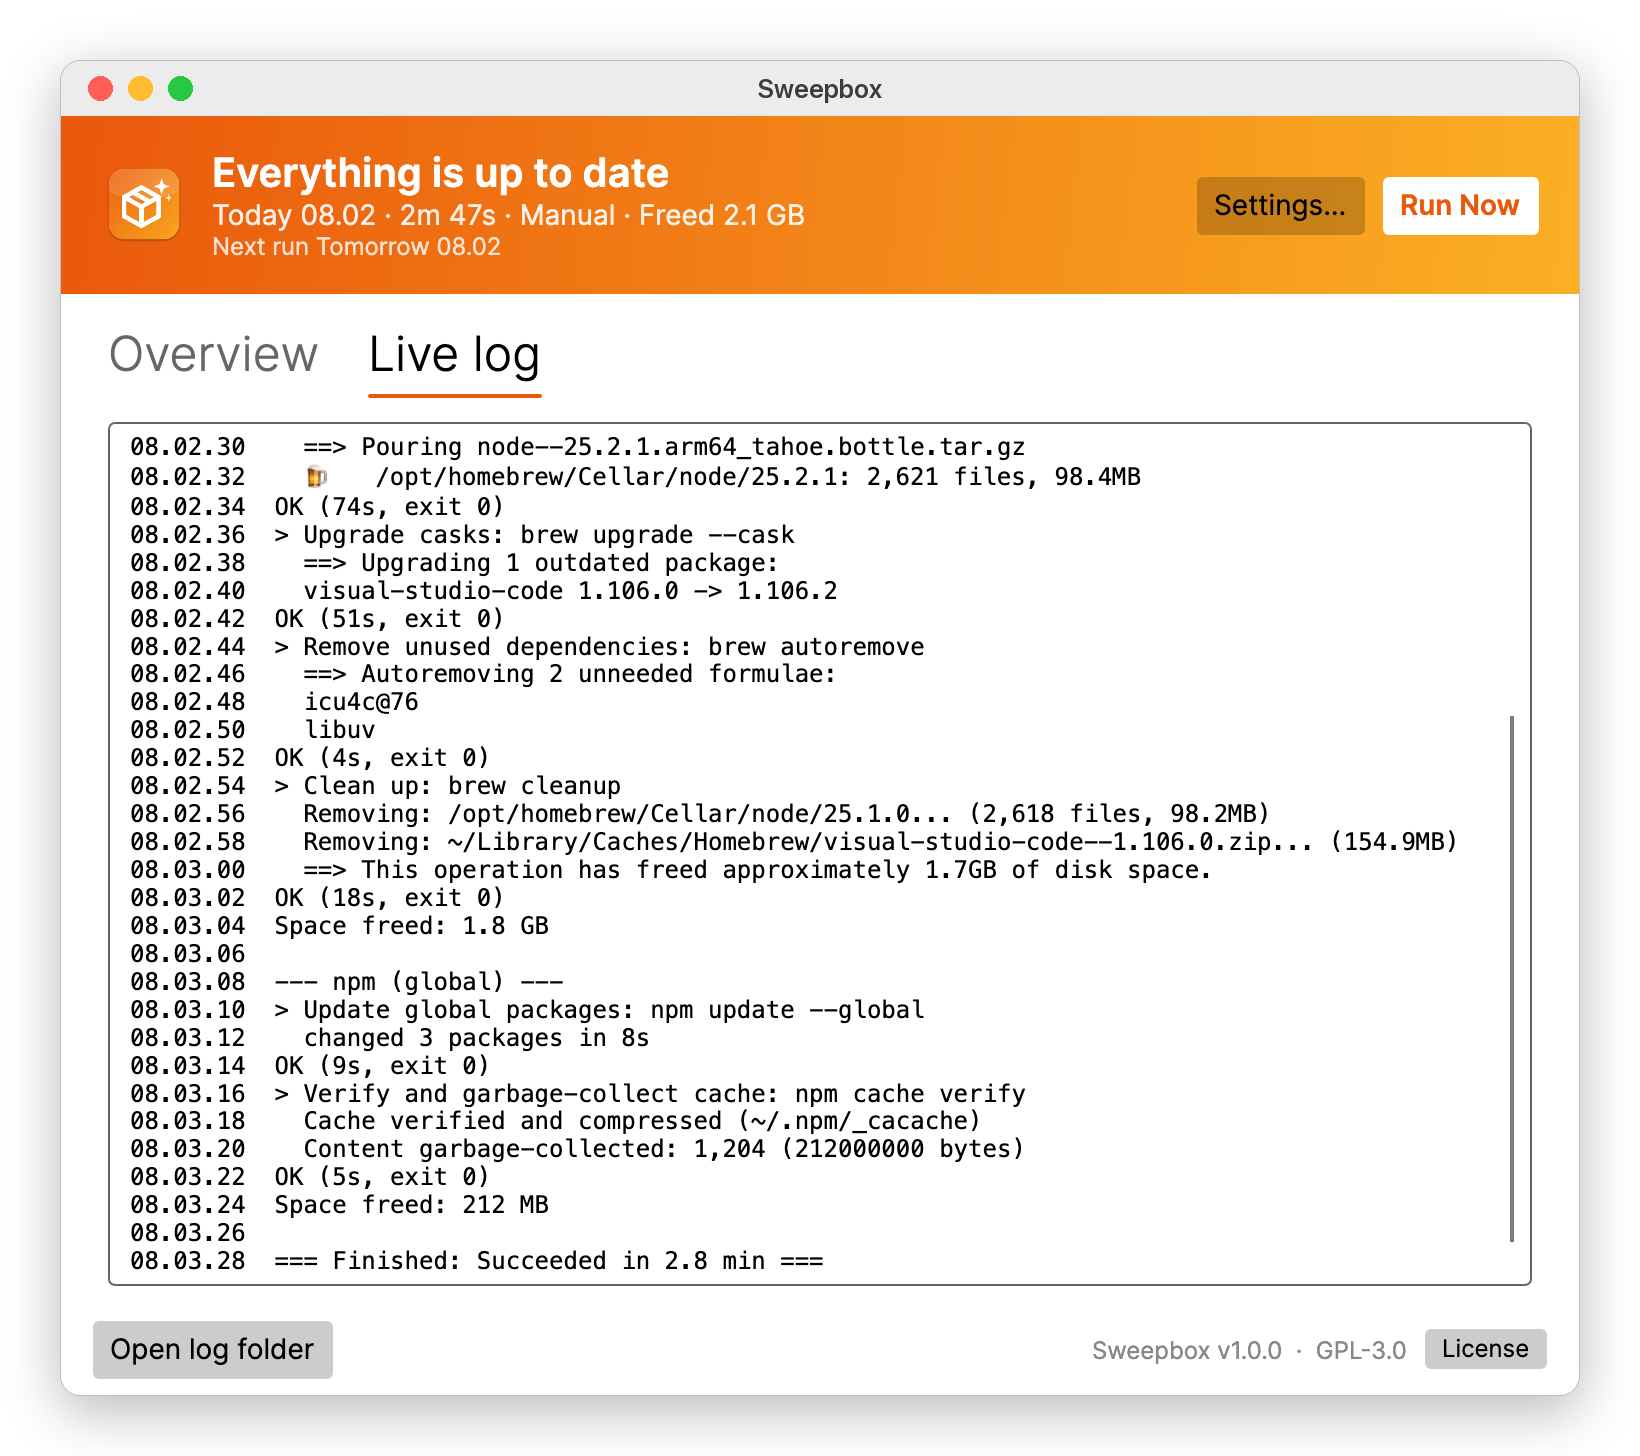
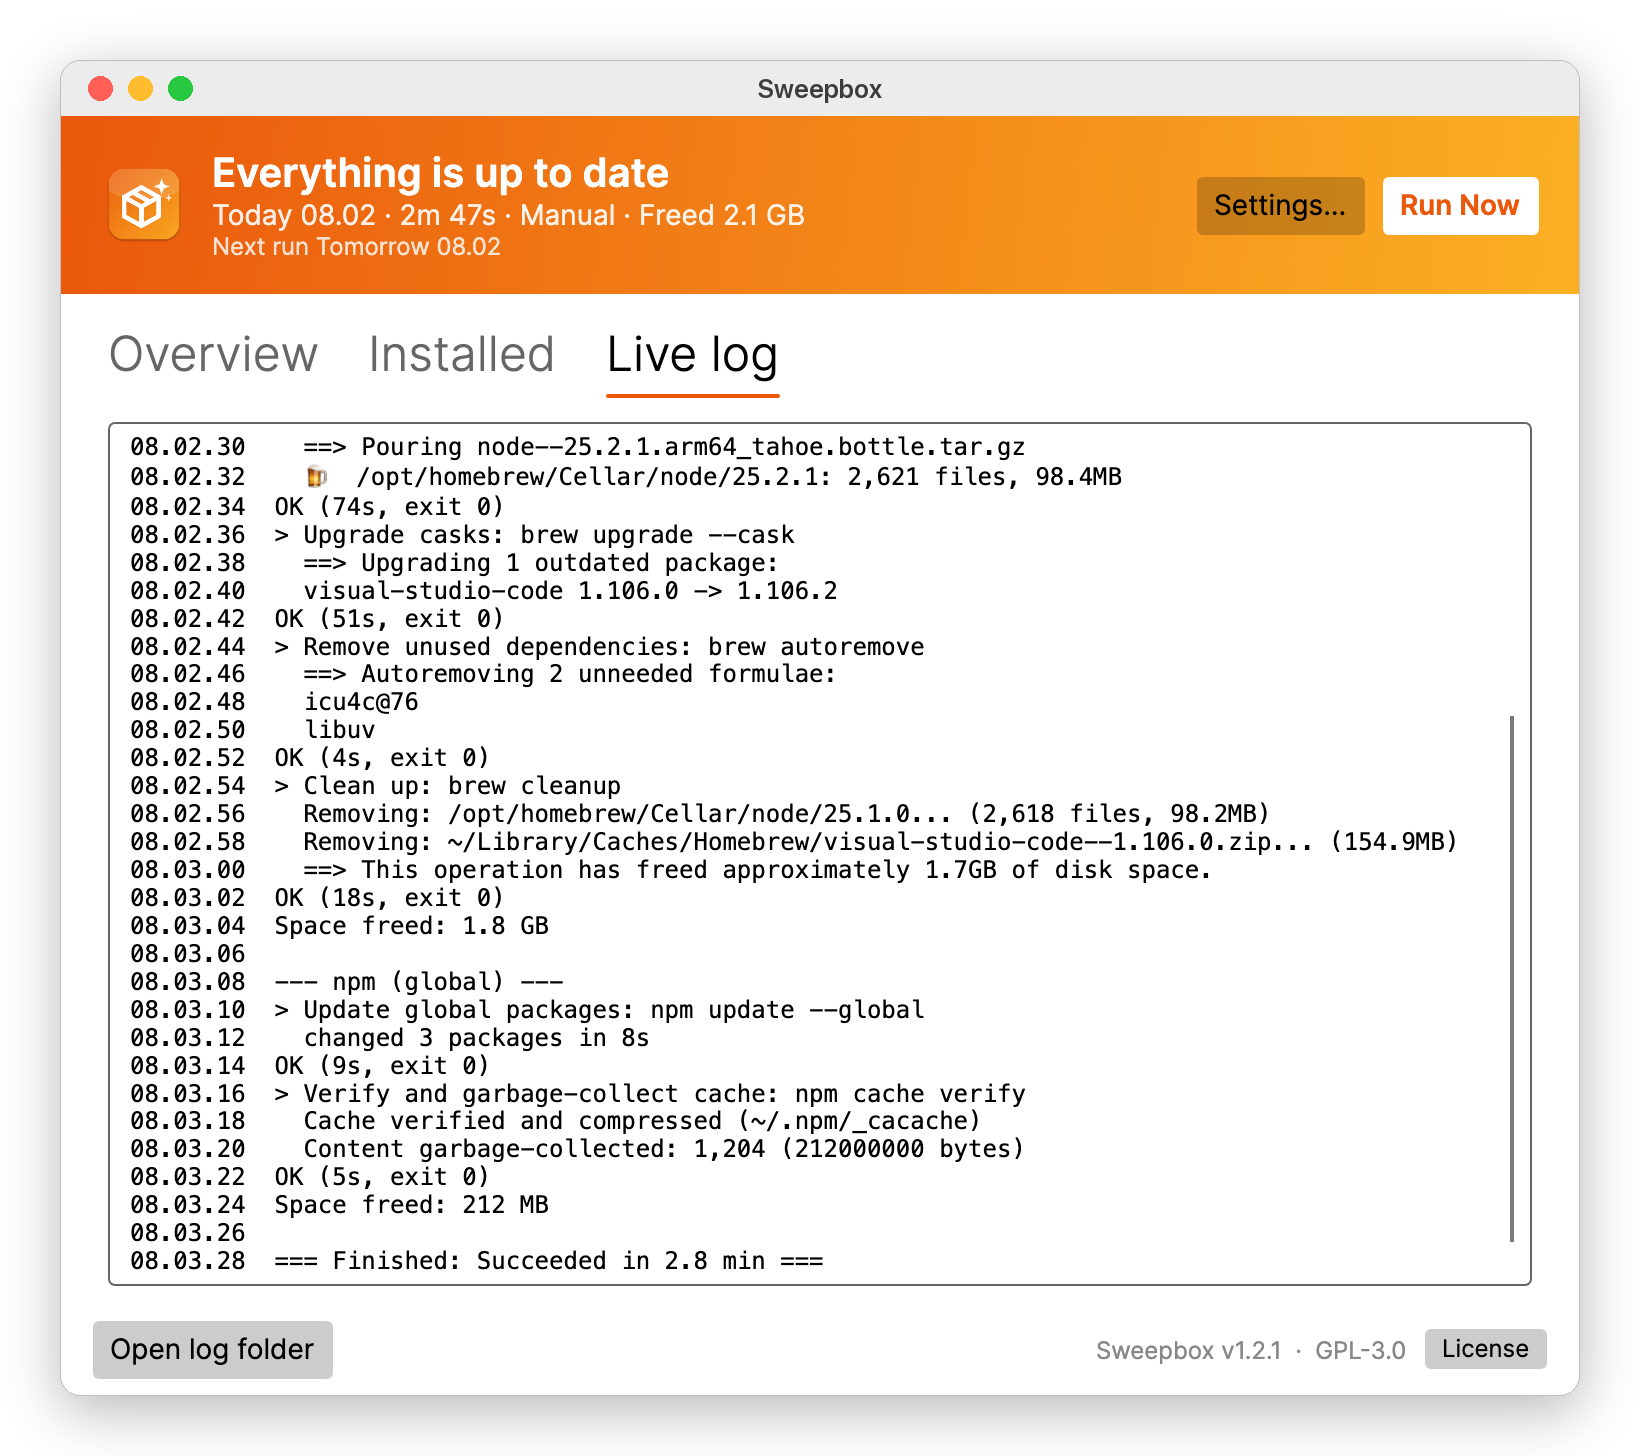
Document the Installed tab and add its screenshots

diff --git a/tools/Screenshots/Program.cs b/tools/Screenshots/Program.cs
@@ -10,6 +10,7 @@ using Avalonia.Threading;
 using Avalonia.VisualTree;
 using Sweepbox.Core.Engine;
 using Sweepbox.Core.Managers;
+using Sweepbox.Core.Running;
 using Sweepbox.Core.Settings;
 using Sweepbox.Desktop;
 using Sweepbox.Desktop.Services;
@@ -34,10 +35,18 @@ foreach (var (theme, suffix) in new[] { (ThemeVariant.Light, ""), (ThemeVariant.
 
     foreach (var (services, platform) in new[] { (macServices, "macos"), (winServices, "windows") })
     {
-        Shot(new SettingsWindow { DataContext = new SettingsViewModel(services.Settings, services.Engine.Managers) },
+        Shot(new SettingsWindow { DataContext = new SettingsViewModel(services.Settings, platform == "windows" ? [new ChocoManager(), new NpmManager()] : services.Engine.Managers) },
             $"settings-{platform}{suffix}", fullHeight: true);
         Shot(new StatusWindow { DataContext = new StatusViewModel(services, () => { }) }, $"status-{platform}{suffix}");
-        Shot(new StatusWindow { DataContext = new StatusViewModel(services, () => { }) }, $"status-log-{platform}{suffix}", selectTab: 1);
+        Shot(new StatusWindow { DataContext = new StatusViewModel(services, () => { }) }, $"status-log-{platform}{suffix}", selectTab: 2);
+
+        var installed = new StatusViewModel(services, () => { });
+        installed.Installed.EnsureLoadedAsync().GetAwaiter().GetResult();
+        Dispatcher.UIThread.RunJobs();
+        foreach (var item in installed.Installed.Groups.SelectMany(g => g.Items).Where(i => i.Package.Name is "zoom" or "typescript" or "gimp" or "yarn").Take(2))
+            item.IsChecked = true;
+        Dispatcher.UIThread.RunJobs();
+        Shot(new StatusWindow { DataContext = installed }, $"installed-{platform}{suffix}", selectTab: 1);
     }
 }
 Console.WriteLine($"Screenshots written to {outDir}");
@@ -105,8 +114,51 @@ internal static class SampleData
             history.Add(report);
         }
 
-        var managers = windows ? new PackageManager[] { new ChocoManager(), new NpmManager() } : [new BrewManager(), new NpmManager()];
-        return new AppServices(paths, managers);
+        var managers = windows ? new PackageManager[] { new OnAnyOS(new ChocoManager()), new NpmManager() } : [new BrewManager(), new NpmManager()];
+        return new AppServices(paths, managers, _ => Task.FromResult<ICommandRunner>(new FakeRunner(windows)));
+    }
+
+    /// <summary>Lets the Windows screenshots list Chocolatey on a Mac: everything is forwarded except the OS check.</summary>
+    private sealed class OnAnyOS(PackageManager inner) : PackageManager
+    {
+        public override string Id => inner.Id;
+        public override string DisplayName => inner.DisplayName;
+        public override string ShortName => inner.ShortName;
+        public override string ExecutableName => inner.ExecutableName;
+        public override bool IsSupportedOnThisOS => true;
+        public override bool IsEnabled(AppSettings settings) => inner.IsEnabled(settings);
+        public override IReadOnlyList<CommandSpec> BuildSteps(AppSettings settings, string executable) => inner.BuildSteps(settings, executable);
+        public override Task<ManagerInventory> ListInstalledAsync(ICommandRunner runner, string executable, CancellationToken cancellationToken) =>
+            inner.ListInstalledAsync(runner, executable, cancellationToken);
+        public override CommandSpec BuildUninstallStep(AppSettings settings, string executable, InstalledPackage package) =>
+            inner.BuildUninstallStep(settings, executable, package);
+        public override bool IsProtected(string packageName) => inner.IsProtected(packageName);
+    }
+
+    /// <summary>Answers the listing probes with canned output. Never starts a process.</summary>
+    private sealed class FakeRunner(bool windows) : ICommandRunner
+    {
+        public string? ResolveExecutable(string name) => "/fake/" + name;
+
+        public Task<CommandResult> RunAsync(CommandSpec spec, Action<string> onOutput, TimeSpan timeout, CancellationToken cancellationToken)
+        {
+            if (spec.IsProbe)
+                foreach (var line in Answer(string.Join(' ', spec.Arguments)))
+                    onOutput(line);
+            return Task.FromResult(new CommandResult(0, TimeSpan.Zero));
+        }
+
+        private string[] Answer(string args) => args switch
+        {
+            "list --cask --versions" => ["google-chrome 131.0.6778.86", "visual-studio-code 1.106.2", "zoom 6.2.11", "slack 4.41.98", "gimp 3.0.4", "vlc 3.0.21"],
+            "leaves --installed-on-request" => ["ffmpeg", "git", "jq", "node", "ripgrep", "sqlite", "tree", "wget"],
+            "list --formula --versions" => ["ffmpeg 7.1.1", "git 2.52.1", "jq 1.8.1", "node 25.2.1", "ripgrep 15.1.0", "sqlite 3.51.1", "tree 2.2.1", "wget 1.25.0", "openssl@3 3.6.1"],
+            "--version" => ["2.5.1"],
+            "list --limit-output" when windows =>
+                ["7zip|24.9.0", "git|2.52.1", "git.install|2.52.1", "googlechrome|131.0.6778.86", "nodejs|25.2.1", "notepadplusplus|8.8.1", "powertoys|0.96.1", "vscode|1.106.2", "vlc|3.0.21", "chocolatey|2.5.1"],
+            "ls --global --depth=0 --json" => ["{\"dependencies\":{\"npm\":{\"version\":\"11.6.2\"},\"typescript\":{\"version\":\"5.9.3\"},\"yarn\":{\"version\":\"1.22.22\"},\"serve\":{\"version\":\"14.2.5\"}}}"],
+            _ => [],
+        };
     }
 
     private static ManagerReport Choco(bool failed, long freed)

diff --git a/tools/frame_screenshots.py b/tools/frame_screenshots.py
@@ -208,7 +208,7 @@ def menu_scene(platform, dark):
     return with_shadow(rounded(scene, 10 * S), 10 * S, pad=40)
 
 
-TITLES = {"settings": "Sweepbox Settings", "status": "Sweepbox", "status-log": "Sweepbox"}
+TITLES = {"settings": "Sweepbox Settings", "status": "Sweepbox", "status-log": "Sweepbox", "installed": "Sweepbox"}
 
 
 def main():

diff --git a/user-docs/MANUAL.md b/user-docs/MANUAL.md
@@ -202,6 +202,26 @@ The **Live log** tab follows the current run line by line (or shows the last run
   <img src="images/status-log-windows.png" alt="Status window: live log (Windows)" width="760">
 </picture>
 
+### Installed packages
+
+The **Installed** tab lists what your package managers have installed, so you can remove things you no longer need without opening a terminal.
+
+<picture>
+  <source media="(prefers-color-scheme: dark)" srcset="images/installed-macos-dark.png">
+  <img src="images/installed-macos.png" alt="Status window: installed packages" width="760">
+</picture>
+
+- **What is listed**: Homebrew apps (casks) and the command-line tools you installed yourself, Chocolatey packages, and npm global packages. Only managers that are installed on your computer appear, even if you turned them off in Settings.
+- **What is not listed**: Homebrew formulae that were only installed as dependencies of something else, because removing those by hand can break the tools that need them. Packages that must stay are hidden too: `npm` and `corepack` for npm, and `chocolatey` and its `chocolatey-*.extension` packages for Chocolatey. For Chocolatey, `git.install` and `git.portable` style packages are hidden when `git` itself is installed.
+- **Find and select**: type in **Search** to filter by name, and tick the packages you want to remove. Ticks stay when the filter hides a package, and the button counts them. **Refresh** reads the lists again.
+- **Confirm**: **Uninstall selected (n)** opens a dialog that names every package. Nothing is removed until you press **Uninstall**. **Cancel** is the default.
+- **Homebrew dependencies**: if **Remove unused dependencies** is on in Settings, Homebrew also removes formulae that nothing else uses after the uninstall, and the dialog tells you so. If it is off, Sweepbox tells Homebrew to leave them.
+- **Chocolatey**: Sweepbox needs Chocolatey 2 or later to list packages. If you have version 1, the group says so and lists nothing. If **Ask for administrator rights (UAC)** is on, you get one prompt per Chocolatey package.
+- **No forcing**: Sweepbox never forces an uninstall. If a package is still needed by another one, the uninstall fails and the package stays installed.
+- **Results**: the window switches to **Live log** while the uninstall runs. A failed package doesn't stop the others. The run appears in **History** as an Uninstall, with its own log file. It doesn't change the last-run result, the schedule or the space freed.
+
+You can't start an uninstall while a run is in progress. The list refreshes by itself when it finishes.
+
 ---
 
 ## Space freed

diff --git a/README.md b/README.md
@@ -24,6 +24,7 @@ A small menu bar (macOS) / system tray (Windows) app that keeps your package man
 - **Settings window**: interval, per-manager steps, Chocolatey exclusions, npm cache mode, start at login, notifications, step timeout and extra PATH entries.
 - **Space freed**: cleanup steps measure the cache/old-version folders before and after, and show the result per manager, per run and as a running total. Shown only when cleanup is enabled.
 - **Status window**: per-manager results, run history, a live log, and links to each run's log file.
+- **Installed tab**: lists your Homebrew apps and tools, Chocolatey packages and npm globals, and uninstalls the ones you tick after you confirm. Results show in the live log and history, and never affect the schedule.
 - **Finds your tools the way your terminal does**: on macOS it reads the PATH from your login shell, so Homebrew, nvm, volta and fnm installs are found even when the app is started from Finder.
 - **Never hangs on prompts**: stdin is closed and every command has a timeout. Anything that asks for a password fails and is reported, instead of blocking.
 - **Chocolatey needs admin rights**: if the app isn't elevated, it asks for UAC once per command (can be turned off in Settings).
